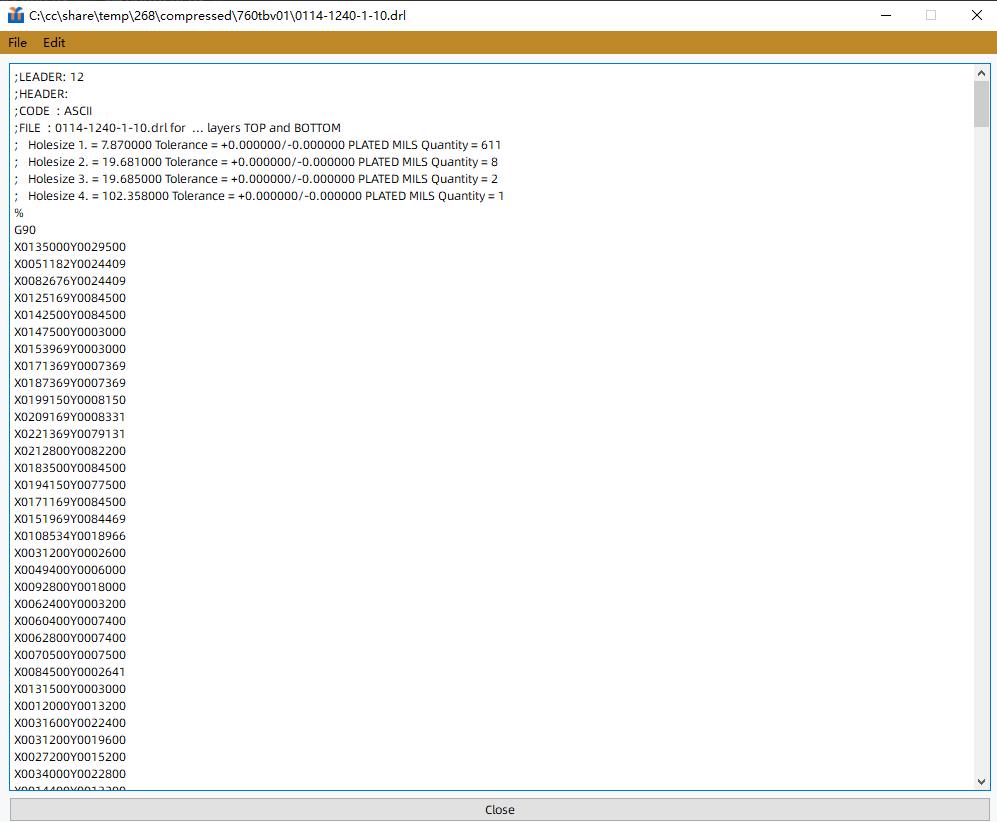
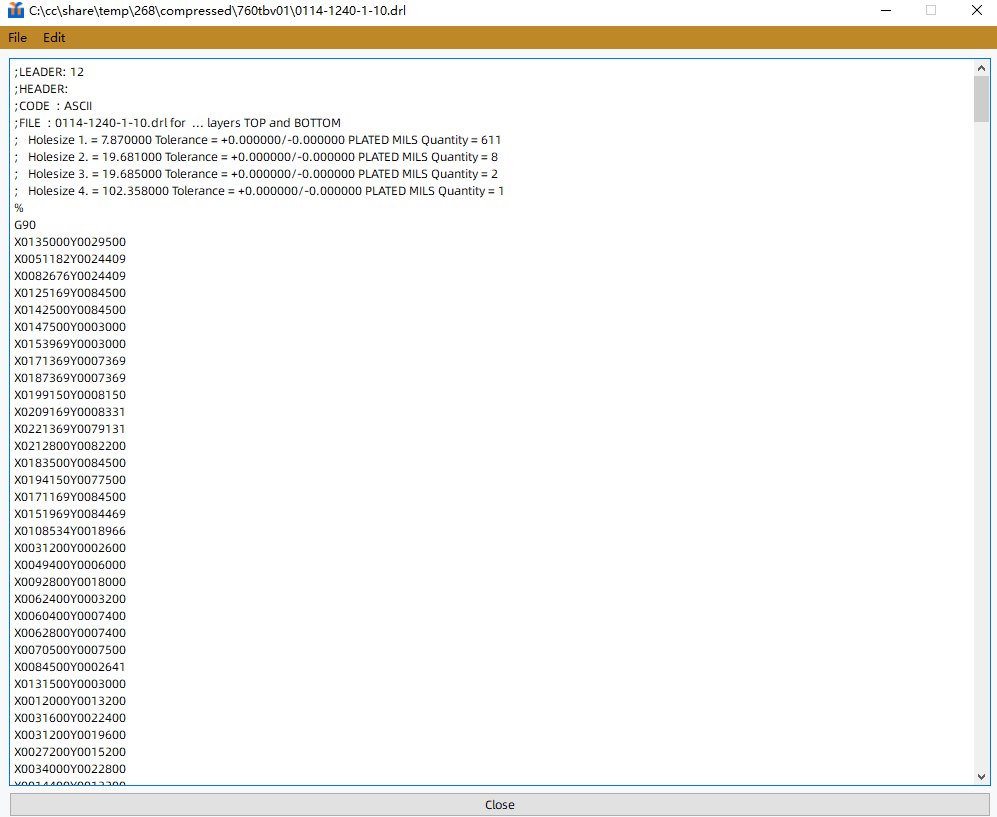
2023112402 gcc 替换view_ascii 截图

Changed region(s): [[0.0, 0.0, 1.0, 0.9792]]

diff --git a/test_dir/test_engineering.py b/test_dir/test_engineering.py
@@ -412,7 +412,7 @@ class TestFile:
         input_view_ascii_window_scroll_y = self.view_ascii.engineering_input_view_ascii_window.capture_as_image()# 截图
         input_view_ascii_window_scroll_y.save(r'C:\cc\share\temp\input_view_ascii_window_scroll_y.png')  # 保存到硬盘
         img = cv2.imread(r'C:\cc\share\temp\input_view_ascii_window_scroll_y.png')
-        img_cut = img[0:822, 8:1005]  # 后面的是水平方向
+        img_cut = img[5:822, 8:1005]  # 后面的是水平方向
         cv2.imwrite(r"C:\cc\share\temp\input_view_ascii_window_scroll_y_cut.png", img_cut)
         cv2.waitKey(0)
         # 加载两张图片
